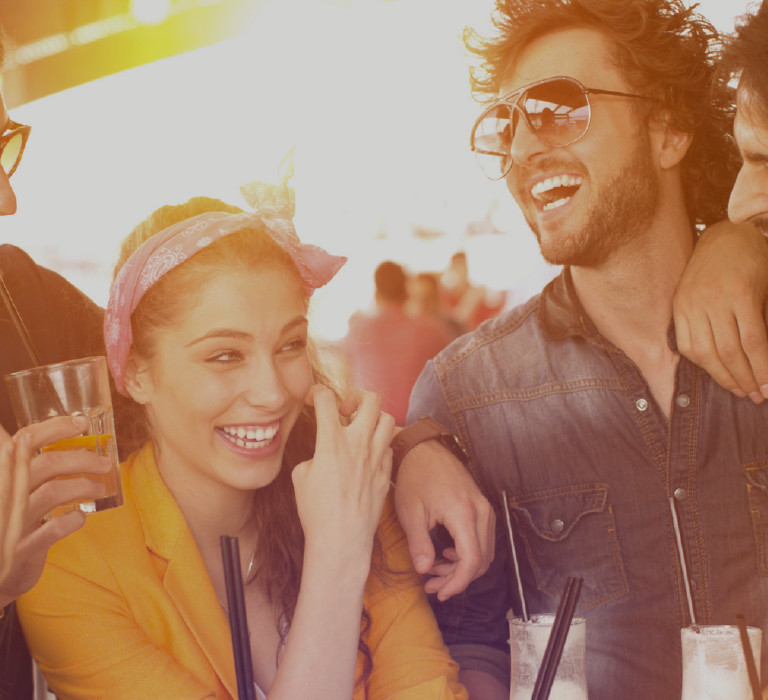
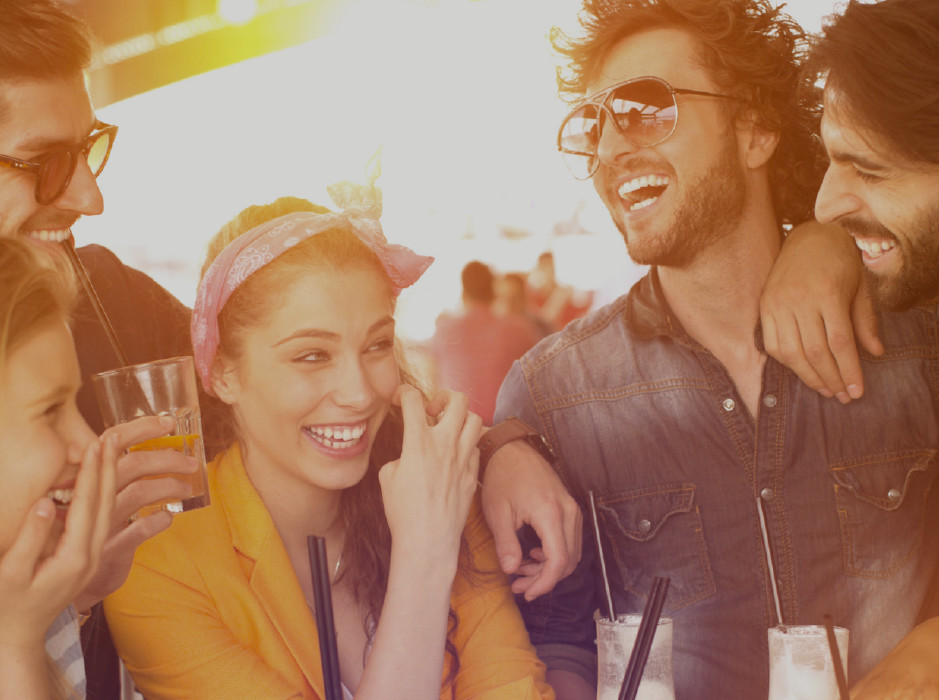
changed background

diff --git a/html-css/module-08/css/media.css b/html-css/module-08/css/media.css
@@ -75,7 +75,7 @@
 
 @media (min-width: 940px) {
   .greeting {
-    background-image: url(../img/desktop-background.png);
+    background-image: url(../img/desktop-background.jpg);
   }
 
   .navigation {
